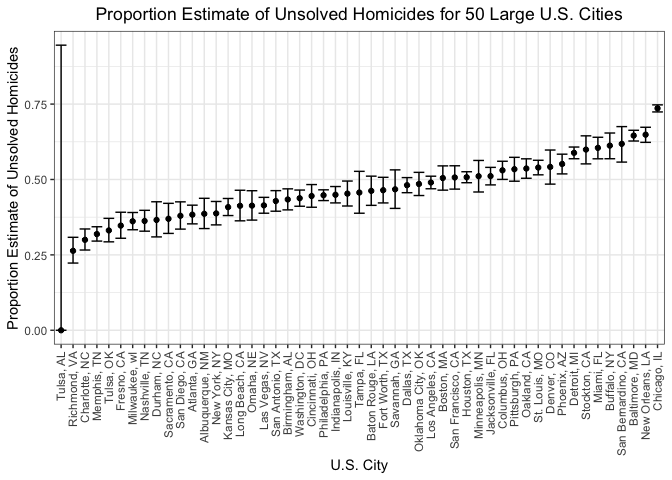
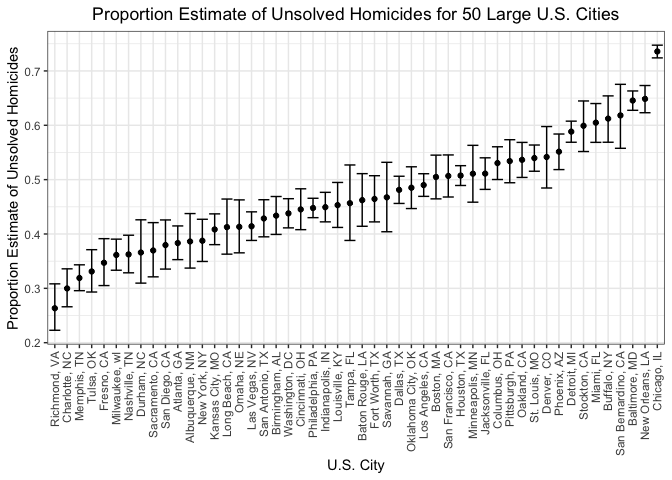
Made changes to solution to problem 1: - Filtered out mis-entered data for city, state "Tulsa, AL". - Expanded on description of raw data. - Made minor grammar edits.

Changed region(s): [[0.0312, 0.0, 1.0, 1.0], [0.9688, 0.0938, 1.0, 0.125], [0.8438, 0.5938, 0.875, 0.625]]

diff --git a/p8105_hw5_bpg2118.md b/p8105_hw5_bpg2118.md
@@ -1,7 +1,7 @@
 p8105\_hw5\_bpg2118
 ================
 Benjamin Goebel
-11/18/2021
+11/20/2021
 
 ## Problem 1
 
@@ -12,7 +12,8 @@ Let’s begin by reading in the data.
 homicide_data <- read_csv(here("data", "homicide-data.csv"))
 ```
 
-There are 52179 rows and 12 columns.
+There are 52179 rows and 12 columns. The average victim age is 31.8
+years with 13.8% of victims being female.
 
 Let’s add a city\_state column.
 
@@ -47,7 +48,7 @@ Baltimore, MD.
 baltimore_summary_homicides <- city_state_summary_homicides %>%
   filter(city_state == "Baltimore, MD")
 baltimore_prop_test <- prop.test(pull(baltimore_summary_homicides, n_unsolved_homicides),
-          pull(baltimore_summary_homicides, n_homicides))
+                                 pull(baltimore_summary_homicides, n_homicides))
 ```
 
 Next, we can tidy the output from the prop test and view the proportion
@@ -77,7 +78,7 @@ city_prop_test_fun <- function(city_df) {
 }
 
 # Nest homicide data
-# Map prop test to each city homicide data
+# Map prop test (city_prop_test_fun) to each city homicide data
 # Map tidy to each prop test
 # Select columns
 city_state_prop_test <- city_state_summary_homicides %>%
@@ -92,12 +93,17 @@ city_state_prop_test <- city_state_summary_homicides %>%
 ```
 
 Next, we will create a plot that shows the proportion estimates with
-confidence intervals for each city.
+confidence intervals for each city. When creating this plot, I noticed
+there was one city, Tulsa, AL, with one homicide and zero unsolved
+homicides. This is an error since this city does not exist. So, I
+filtered out this city when creating the plot.
 
 ``` r
 # Plot proportion estimate of unsolved homicides for 50 large U.S. cities
 # Use geom_errorbar to plot confidence intervals
+# Filter out city Tulsa, AL, as this is mis-entered data
 city_state_prop_test %>%
+  filter(city_state != "Tulsa, AL") %>%
   mutate(city_state = fct_reorder(city_state, estimate)) %>%
   ggplot(aes(x = city_state, y = estimate)) +
   geom_point() +
